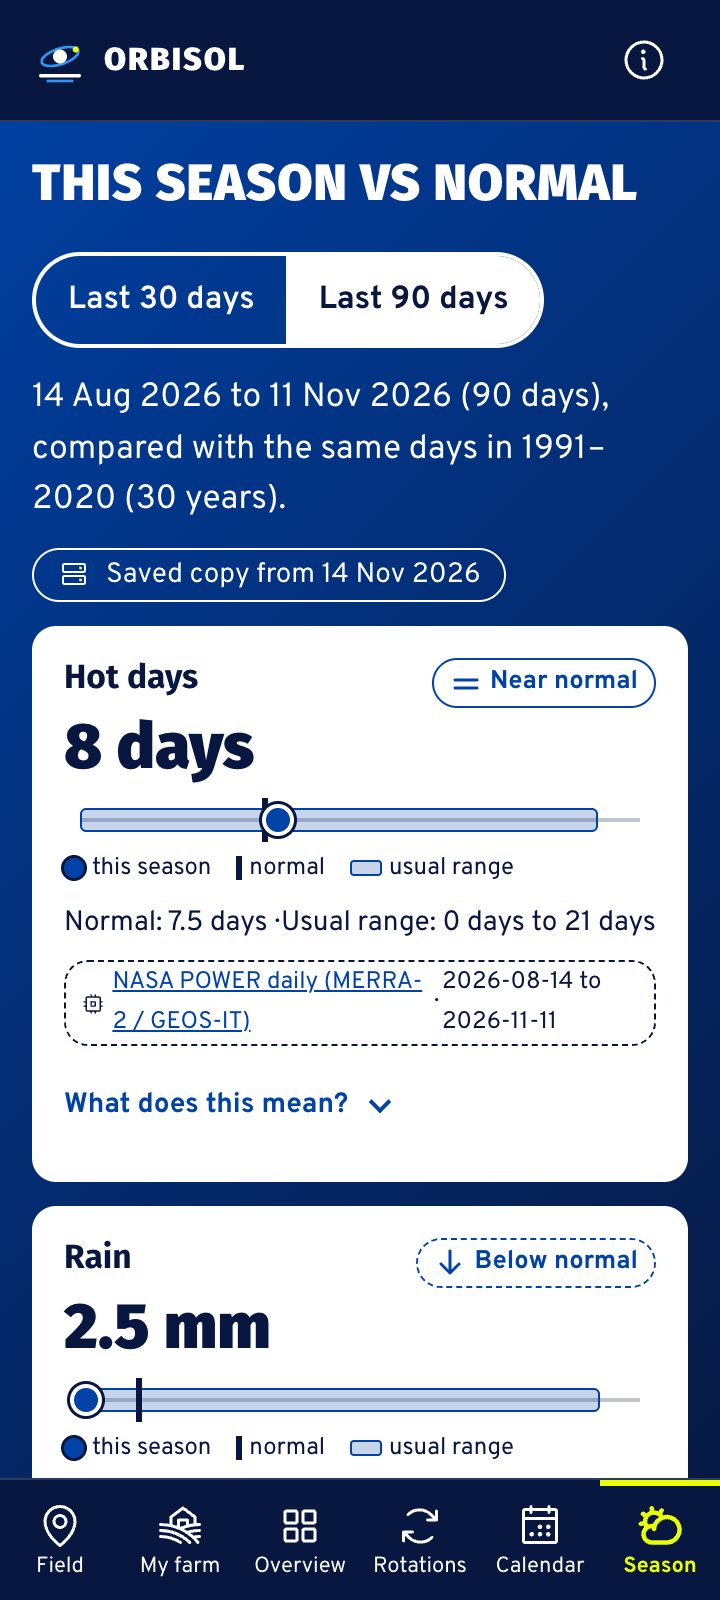
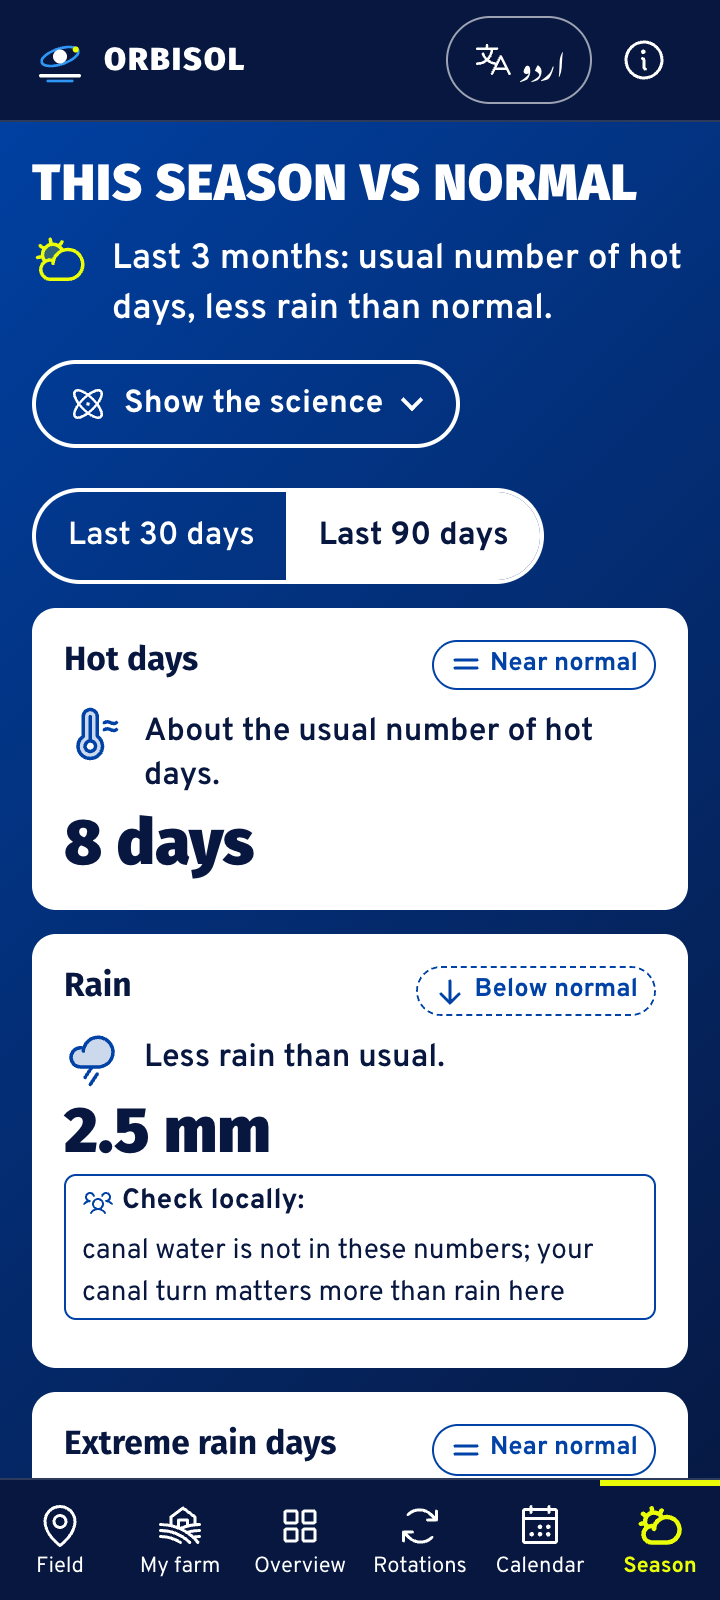
docs: screenshots recaptured (farmer + science layers, Urdu draft shots); build log

diff --git a/docs/build-log.md b/docs/build-log.md
@@ -155,3 +155,24 @@
   emissions paths, salt rating in words, model squares; glossary popovers kept.
 - Verified: nav 6 x 60x60 px at 360, labels on one line; fresh start shows the cotton -> wheat preset selected.
   Screenshots recaptured (top of screen for all 7 screens + full-length 2x for Overview, Rotations, Calendar).
+
+## 2026-11-15 PKT - Farmer layer + science layer (presentation only) - commits c6d3590 .. 9be79b9
+
+- Basis: GSMA AgriTech UX guidance (insights, not just data; plain local language; icons; voice; less is more) and
+  2024 Space Apps winners that turned NASA data into simple decisions.
+- Two layers on Overview, Rotations, Calendar, Season: one plain sentence + icon per screen and card; charts, ranges,
+  sources and method text under one "Show the science" switch (open by default >= 1024 px, closed on phones). Nothing
+  removed; risks to check locally and the canal-turn empty state stay in the farmer layer.
+- Farmer units: water as "about 1 in N canal turns saved" (N = round(100 / %), only from 5%), bare days as
+  "X hot days with bare soil: sun and wind take the topsoil"; exact numbers beside them.
+- Crop-year chart: Current | Option 1 | Option 2; bars and bare gaps glide (CSS transitions on SVG geometry, stable
+  keys) and the hottest-months bare-day count updates; MODIS curve with Current only.
+- Motion (< 400 ms, off with prefers-reduced-motion, checked by emulation): count-up via CSS @property counter, bars
+  grow in, NDVI and trend lines draw in.
+- Listen: browser speechSynthesis reads the four Overview sentences (arrows and ranges spoken in words); hidden when
+  unsupported. No network, no dependency.
+- Urdu (DRAFT, needs native review; src/i18n/locales/ur.ts): Field screen, Overview plain sentences, nav labels and
+  the buttons on those screens. RTL with Noto Nastaliq Urdu; untranslated English keeps left-to-right
+  (unicode-bidi: plaintext); numbers, ranges and units isolated left-to-right; dates stay English while Urdu is partial.
+  English remains the default; the choice is remembered on the device.
+- Screenshots recaptured (docs/screenshots/), plus two Urdu draft phone shots (08-*-ur-draft-360x800.png).
